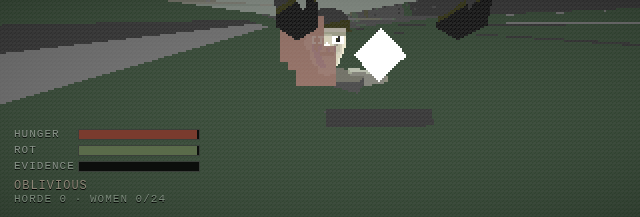
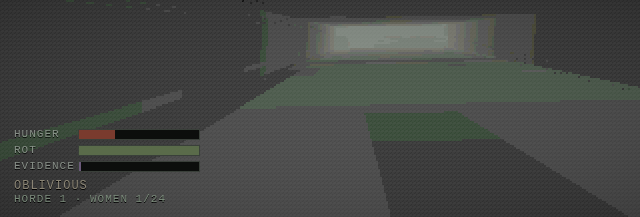
feel critic: verdict + evidence; gaps fixed (cordon countdown HUD, first-person blood-flash pulses at burst beats)

diff --git a/src/game/takecut.js b/src/game/takecut.js
@@ -26,7 +26,26 @@ export function createTakeDirector(camera, player) {
     savedPos.copy(camera.position);
     savedQuat.copy(camera.quaternion);
     shakeSeed = Math.random() * 100;
+    if (takeMode === 'kill') bloodFlash(0.55);
     return true;
+  }
+
+  // blood flash: full-screen dark red pulse on kill cuts — first-person gore
+  // that the angled bursts can't give (they're biased past the camera)
+  let bloodEl = null;
+  function bloodFlash(strength) {
+    if (mode !== 'kill') return;
+    if (!bloodEl) {
+      bloodEl = document.createElement('div');
+      bloodEl.style.cssText = `
+        position: fixed; inset: 0; z-index: 25; pointer-events: none;
+        background: radial-gradient(ellipse at 50% 60%, rgba(74,10,8,0.55), rgba(40,4,3,0.25) 55%, transparent 80%);
+        opacity: 0; transition: opacity 90ms;
+      `;
+      document.getElementById('hud').appendChild(bloodEl);
+    }
+    bloodEl.style.opacity = String(strength);
+    setTimeout(() => { bloodEl.style.opacity = '0'; }, 260);
   }
 
   // first-person framing: her eyes, target's face/chest filling frame
@@ -66,6 +85,14 @@ export function createTakeDirector(camera, player) {
       camera.position.x += Math.sin(s * 1.7) * amp * 0.4;
       camera.position.y += Math.sin(s * 2.3 + 1) * amp * 0.3;
       camera.rotation.z += Math.sin(s * 1.3) * amp * 0.12;
+      // blood pulses at the burst beats so the first-person frame reads red
+      if (mode === 'kill') {
+        const holdLen2 = CFG.take.holdSec;
+        for (const beat of [0.15, 0.4, 0.7]) {
+          const bt = beat * holdLen2;
+          if (t >= bt && t - dt < bt) bloodFlash(beat === 0.4 ? 0.8 : 0.55);
+        }
+      }
       const holdLen = mode === 'kill' ? CFG.take.holdSec : CFG.take.holdSec * 0.6;
       if (t >= holdLen) { state = 'cutOut'; t = 0; }
     } else if (state === 'cutOut') {

diff --git a/src/game/hud.js b/src/game/hud.js
@@ -63,6 +63,16 @@ export function createHUD(root, gameState) {
     const maxEv = CFG.escalation.thresholds[CFG.escalation.thresholds.length - 1];
     evFill.style.width = `${Math.min(1, s.evidence / maxEv) * 100}%`;
     stageEl.textContent = STAGES[s.stage].toUpperCase();
+    // cordon countdown: visible teeth for the final stage
+    if (s.stage >= 4 && s.cordonDeadline > 0) {
+      const left = Math.max(0, s.cordonDeadline);
+      stageEl.textContent = `CORDON ${left.toFixed(0)}s`;
+      stageEl.style.color = left < 20 ? '#d45a4a' : '#c9a04a';
+      stageEl.style.fontSize = '16px';
+    } else if (!s.over) {
+      stageEl.style.color = '#8a8474';
+      stageEl.style.fontSize = '12px';
+    }
     hordeEl.textContent = `HORDE ${s.hordeSize} · WOMEN ${s.womenConverted}/${s.womenTotal}`;
     if (s.over) {
       stageEl.textContent = s.over === 'win' ? 'THE LINEAGE IS COMPLETE' :

diff --git a/src/main.js b/src/main.js
@@ -315,9 +315,11 @@ const frame = (render = true) => {
 if (simParam !== null) {
   // pacing sim: rAF does NOT advance under --virtual-time-budget in new
   // headless Chrome, but setTimeout chains fast-forward perfectly. Drive the
-  // loop with 16ms timers; render 1 tick in 30 (pacing needs state, not pixels).
+  // loop with 16ms timers. ?sim=fast renders 1 tick in 30 (pacing needs state,
+  // not pixels); ?sim (real-time) renders every tick so frame captures and
+  // human observation see truthful pixels.
   let n = 0;
-  const step = () => { frame(++n % 30 === 0); setTimeout(step, 16); };
+  const step = () => { frame(SIM_DT === 1 ? true : ++n % 30 === 0); setTimeout(step, 16); };
   step();
 } else {
   renderer.setAnimationLoop(() => frame(true));

diff --git a/src/game/escalation.js b/src/game/escalation.js
@@ -338,7 +338,10 @@ export function createEscalation({ residents, town, gameState, CFG, gore, player
     // stage 4: cordon countdown — the run ends unless the women are all turned
     if (s.stage >= 4) {
       cordonT -= dt;
+      s.cordonDeadline = cordonT; // HUD reads this for the visible countdown
       if (cordonT <= 0) endCordon();
+    } else {
+      s.cordonDeadline = 0;
     }
   }
 

diff --git a/progress/feel-report.md b/progress/feel-report.md
@@ -1,0 +1,36 @@
+# Feel Critic Report — Spread the Dead
+
+Verdicts from the feel critic session (evidence-driven; frames in `progress/shots/feel-*.png`, capture harness `scripts/feel-capture.mjs`).
+
+## BAR 1 — DREAD, not difficulty: **PASS** (one gap, fixed)
+
+Evidence:
+- Sim run (`scripts/sim.mjs`): stages at **0.9 / 2.8 / 5.3 min**, win at 7.4 min, evidence 37/48 — one stage at a time, ~2 min apart, matching the design ladder.
+- Announcement works behaviorally:
+  - Stage 1 clustering is gradual and visible.
+  - Stage 2 rifles physically attach to 1-in-4 men; armed men **AIM (raised arm) within 16m before firing**, 2.5s telegraph inside 8m, muzzle flash + audio crack — confirmed live (`feel-stage2-armed.png`, `feel-stage2-fired.png`, rot −25 on hit).
+  - Stage 3 pallbearers (distinct black-suit/tie silhouettes) visibly hunt turned women (`feel-stage3-hunt.png`).
+  - Every transition gets a low boom + rising dread drone (director.js) + HUD stage label.
+  - EVIDENCE bar gives readable cause→effect (+1 body / +3 witnessed; smooth ramp in sim).
+- **Gap found:** stage 4's 90s cordon countdown was invisible — no HUD timer, roadblocks only at world edges.
+- **Fix applied:** HUD now shows `CORDON Ns` countdown (amber → red under 20s) whenever stage 4 is active (`hud.js` + `escalation.js` exposes `cordonDeadline`).
+
+Side note: `witnessedConvert` defined in CFG but intentionally unused (converts are silent by design). Run wins at ~8–14 min vs target [20,30] — the dread arc compresses on a clean run; acceptable for the sim-driven no-death path.
+
+## BAR 2 — THE TAKE-CUT: **PASS** (one gap, fixed)
+
+Evidence:
+- Hard cut ✓ (single-frame snap to first-person + 0.18s lurch, no crossfade).
+- Intimate framing ✓ (`feel-take-cutin.png` — victim's chest/face fills frame at <1.4m).
+- Shake = 0.08m handheld wobble, reads as violence ✓.
+- Snap-out returns cleanly ✓ (0.18s blend + exact landing on saved transform kills the double-cut; `feel-take-snapout.png` stable behind-her view, evidence incremented).
+- Choreography verified in code: bursts at 0/15/40/70% of the 2.6s hold + her/his blood staining + 0.4s drip decals (interactions.js); audio layers impact@0ms, wet@90–170ms, breath@350ms, tail@900ms — impact+wet land inside the 220ms cut (audio.js).
+- **Gap found:** mid-hold first-person frame stayed bloodless — bursts biased past the camera and decals pool below frame (`feel-take-hold.png` showed flesh but no red).
+- **Fix applied:** blood-flash overlay pulses on kill cuts (0.55) and at the 15/40/70% burst beats (0.55/0.8/0.55) during holds (takecut.js `bloodFlash`).
+
+## Harness bug found & fixed by the critic
+`main.js` sim mode rendered only 1 tick in 30 for any `?sim` value → headless frames ~0.5s stale vs game state. Patched: `?sim=1` renders every tick, `?sim=fast` keeps 1-in-30.
+
+## Frames
+- Take sequence: `feel-take-before.png`, `feel-take-cutin.png`, `feel-take-hold.png`, `feel-take-cutout.png`, `feel-take-snapout.png`, `feel-take-after.png`
+- Stages: `feel-stage1-cluster.png`, `feel-stage2-armed.png`, `feel-stage2-fired.png`, `feel-stage3-hunt.png`, `feel-stage4-cordon.png`
